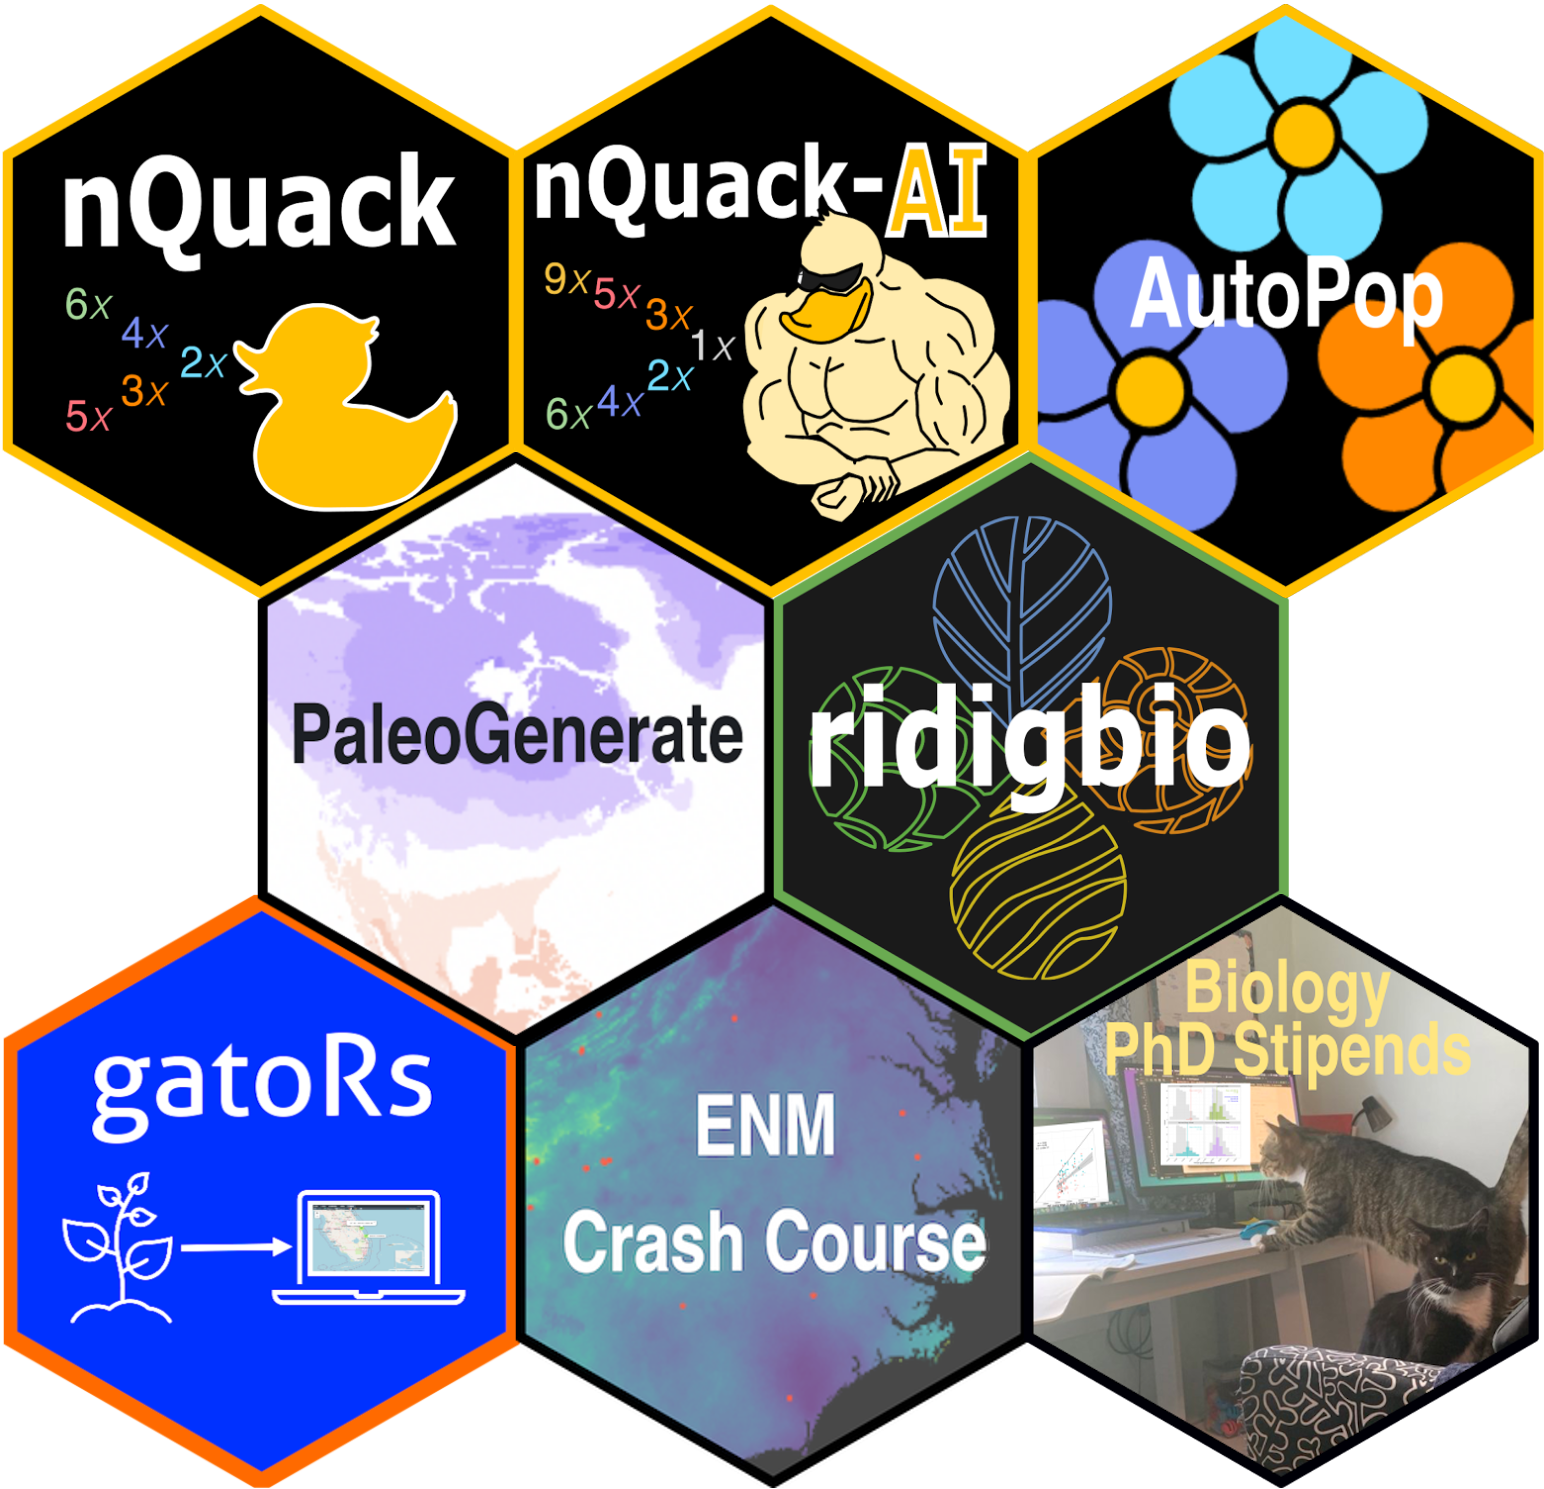
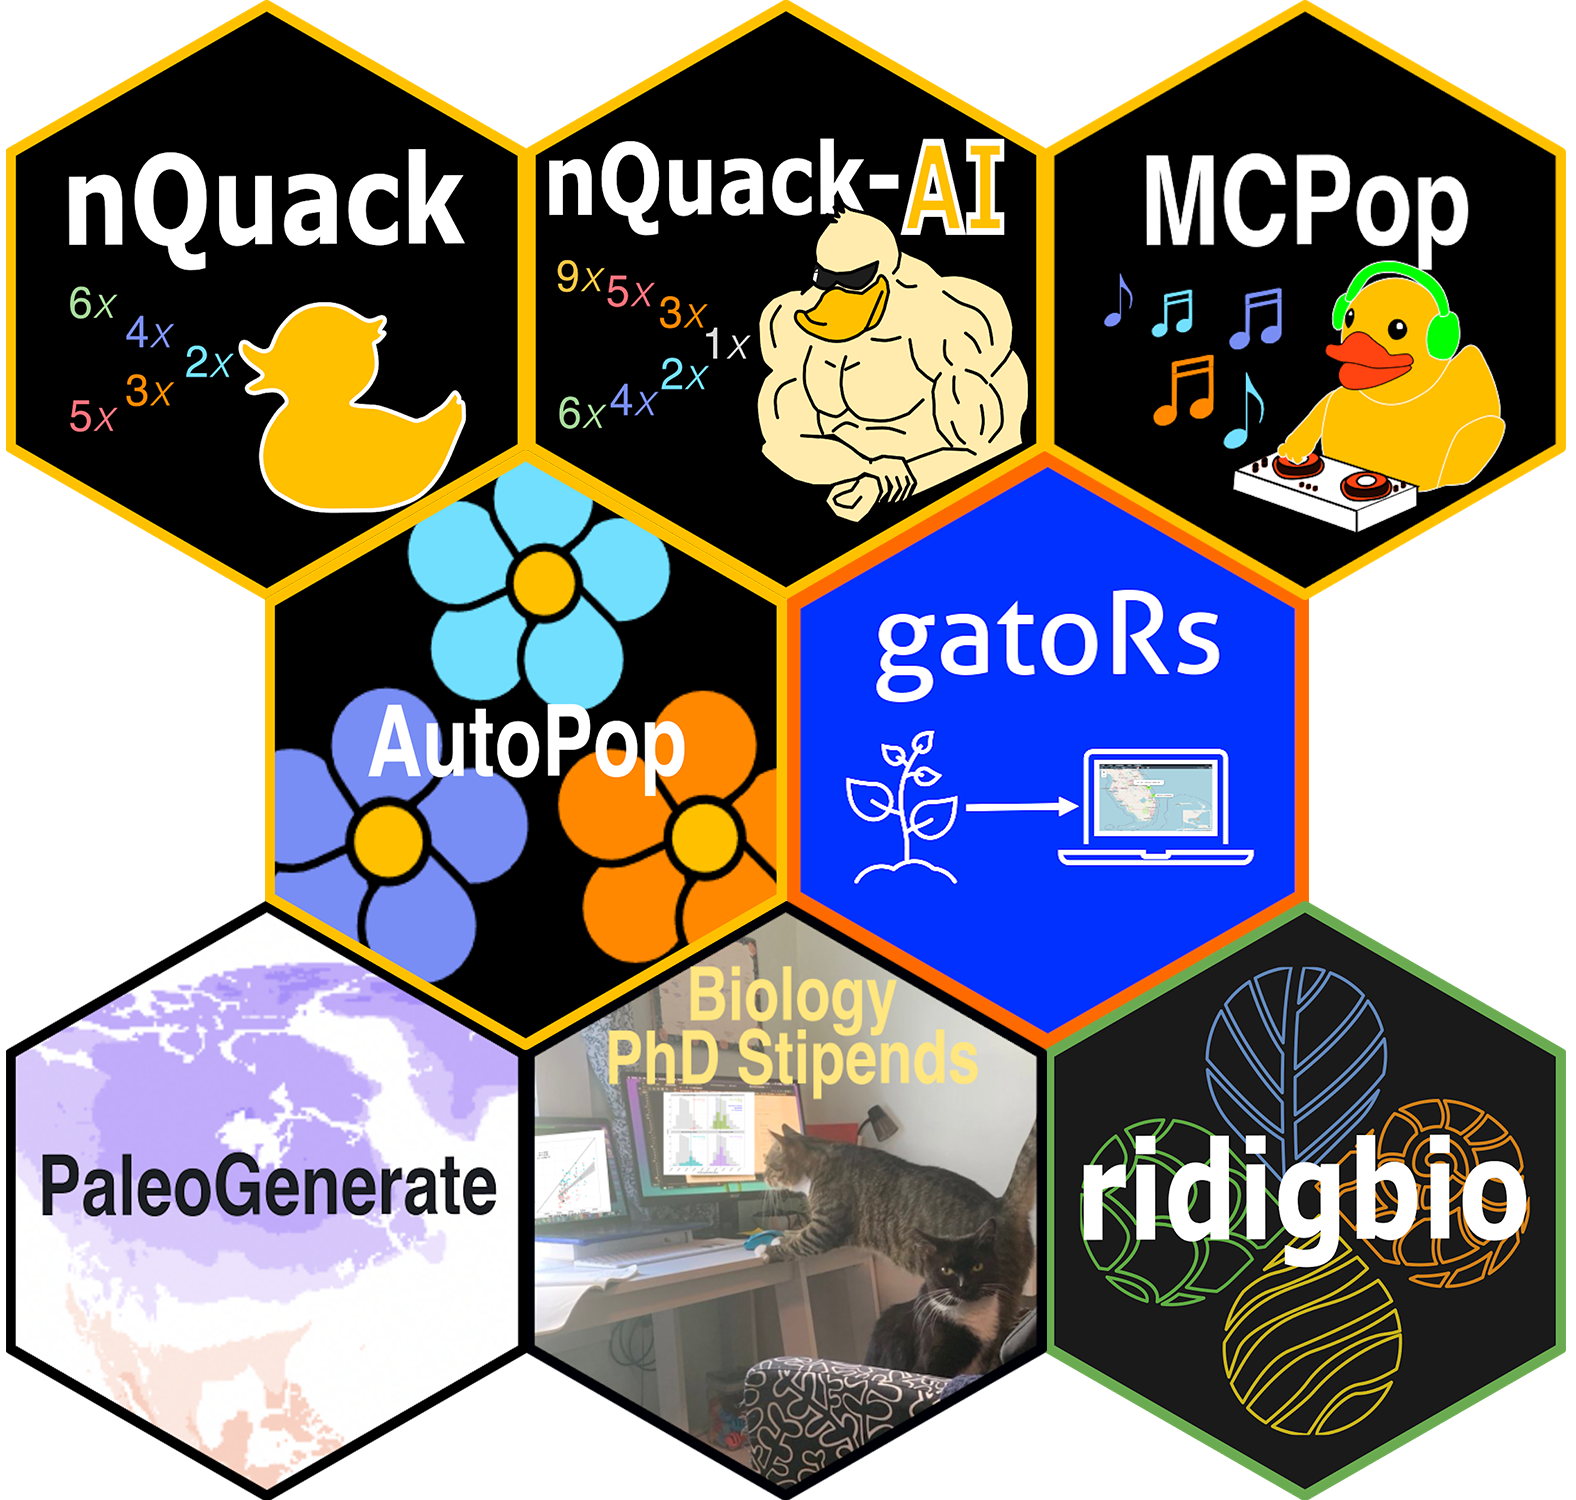
Minor update on contact

diff --git a/contact.html b/contact.html
@@ -41,11 +41,13 @@ background: '/img/bg-news.jpeg'
 			<img src="img/SoftwareRoundup.png" style="width:100%">
 		</div>
    			
-	 <div class="col-md-6 col-sm-12"  style="padding-top: 50px;">
+	 <div class="col-md-6 col-sm-12"  style="padding-top: 20px;">
 	 <p  style= "color: #000000; text-transform: none; font-weight: 350;"> Software:</p>
 			<ul  style="padding-left:30px">
 					<li style="font-size: 18px; text-transform: none; font-weight: 350; color: #000;"><a href="https://mlgaynor.com/nQuack/" target="_blank">nQuack: An R package for predicting ploidy level from sequence data using site-based heterozygosity.</a>  (Also available on <a href="https://github.com/mgaynor1/nQuack" target="_blank" > GitHub</a>) </li>
 					<li style="font-size: 18px; text-transform: none; font-weight: 350; color: #000;">nQuack-AI: A data-based approach for predicting ploidy level from sequence data. Coming Soon! If you have sequence data with known ploidal level, please reach out! </li>
+					<li style="font-size: 18px; text-transform: none; font-weight: 350; color: #000;">MCPop: <b>M</b>ixed-<b>C</b>ytotype <b>Pop</b>ulation Genetics Toolkit. This repository is a collection of functions I've used in various population genetics projects focused on mixed-cytotypes. Coming Soon!  </li>
+
 					<li style="font-size: 18px; text-transform: none; font-weight: 350; color: #000;"><a href="https://mlgaynor.com/AutoPop/" target="_blank">AutoPop: R-based autopolyploid population simulations</a>  (Also available on <a href="https://github.com/mgaynor1/AutoPop" target="_blank" > GitHub</a>) </li>
 			         <li style="font-size: 18px; text-transform: none; font-weight: 350; color: #000;"><a href="https://nataliepatten.github.io/gatoRs/index.html" target="_blank">gatoRs: Geographic and Taxonomic Occurrence R-Based Scrubbing R package</a>  (Also <a href="https://cloud.r-project.org/web/packages/gatoRs/index.html" target="_blank" > available on CRAN</a> and <a href="https://github.com/nataliepatten/gatoRs/" target="_blank" > GitHub</a>) </li>
 					<li style="font-size: 18px; text-transform: none; font-weight: 350; color: #000;">Maximum likelihood based ancestral reconstruction. Available on GitHub: <a href="https://github.com/ryanafolk/utremi" target="_blank">utremi</a> & <a href="https://github.com/mgaynor1/PaleoGenerate" target="_blank">PaleoGenerate</a>. </li>
